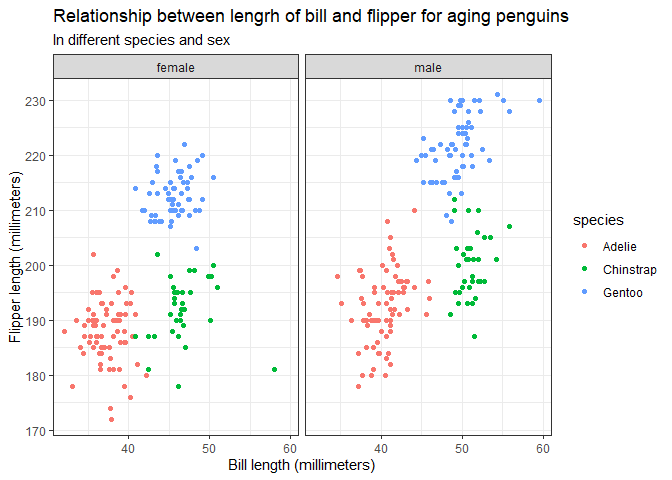
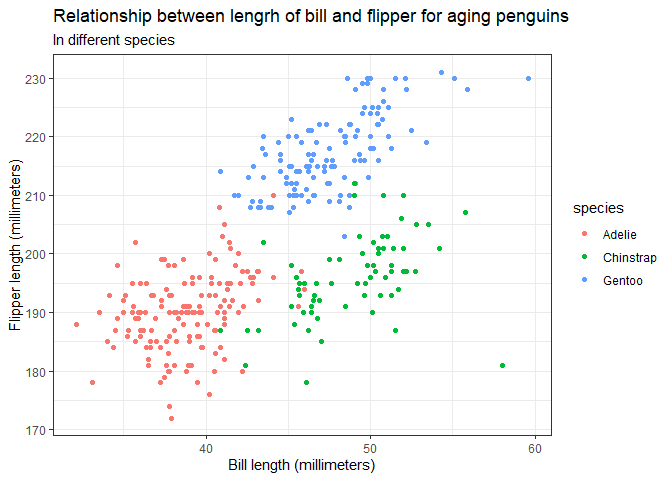
Change the scatter plot for 2.2

diff --git a/pubh7462_hw1_ma000332.md b/pubh7462_hw1_ma000332.md
@@ -54,7 +54,21 @@ round(sd(penguin.df$flipper_length_mm,na.rm = T),digits = 2)
 
 ``` r
 penguin.df %>%
-  filter(!is.na(sex)) %>%
+  ggplot(aes(x=bill_length_mm,y=flipper_length_mm,color=species))+
+  geom_point()+
+  xlab("Bill length (millimeters)")+
+  ylab("Flipper length (millimeters)")+
+  theme_bw()+
+  labs(title = "Relationship between lengrh of bill and flipper for aging penguins",
+       subtitle = "In different species")
+```
+
+    ## Warning: Removed 2 rows containing missing values (geom_point).
+
+![](pubh7462_hw1_ma000332_files/figure-gfm/unnamed-chunk-3-1.png)<!-- -->
+
+``` r
+penguin.df %>%
   ggplot(aes(x=bill_length_mm,y=flipper_length_mm,color=species))+
   geom_point()+
   facet_wrap(~sex)+
@@ -65,7 +79,7 @@ penguin.df %>%
        subtitle = "In different species and sex")
 ```
 
-![](pubh7462_hw1_ma000332_files/figure-gfm/unnamed-chunk-3-1.png)<!-- -->
+![](pubh7462_hw1_ma000332_files/figure-gfm/unnamed-chunk-4-1.png)<!-- -->
 
 -   There is no specific line relationship between length of bill and
     flipper in each species and sex.
